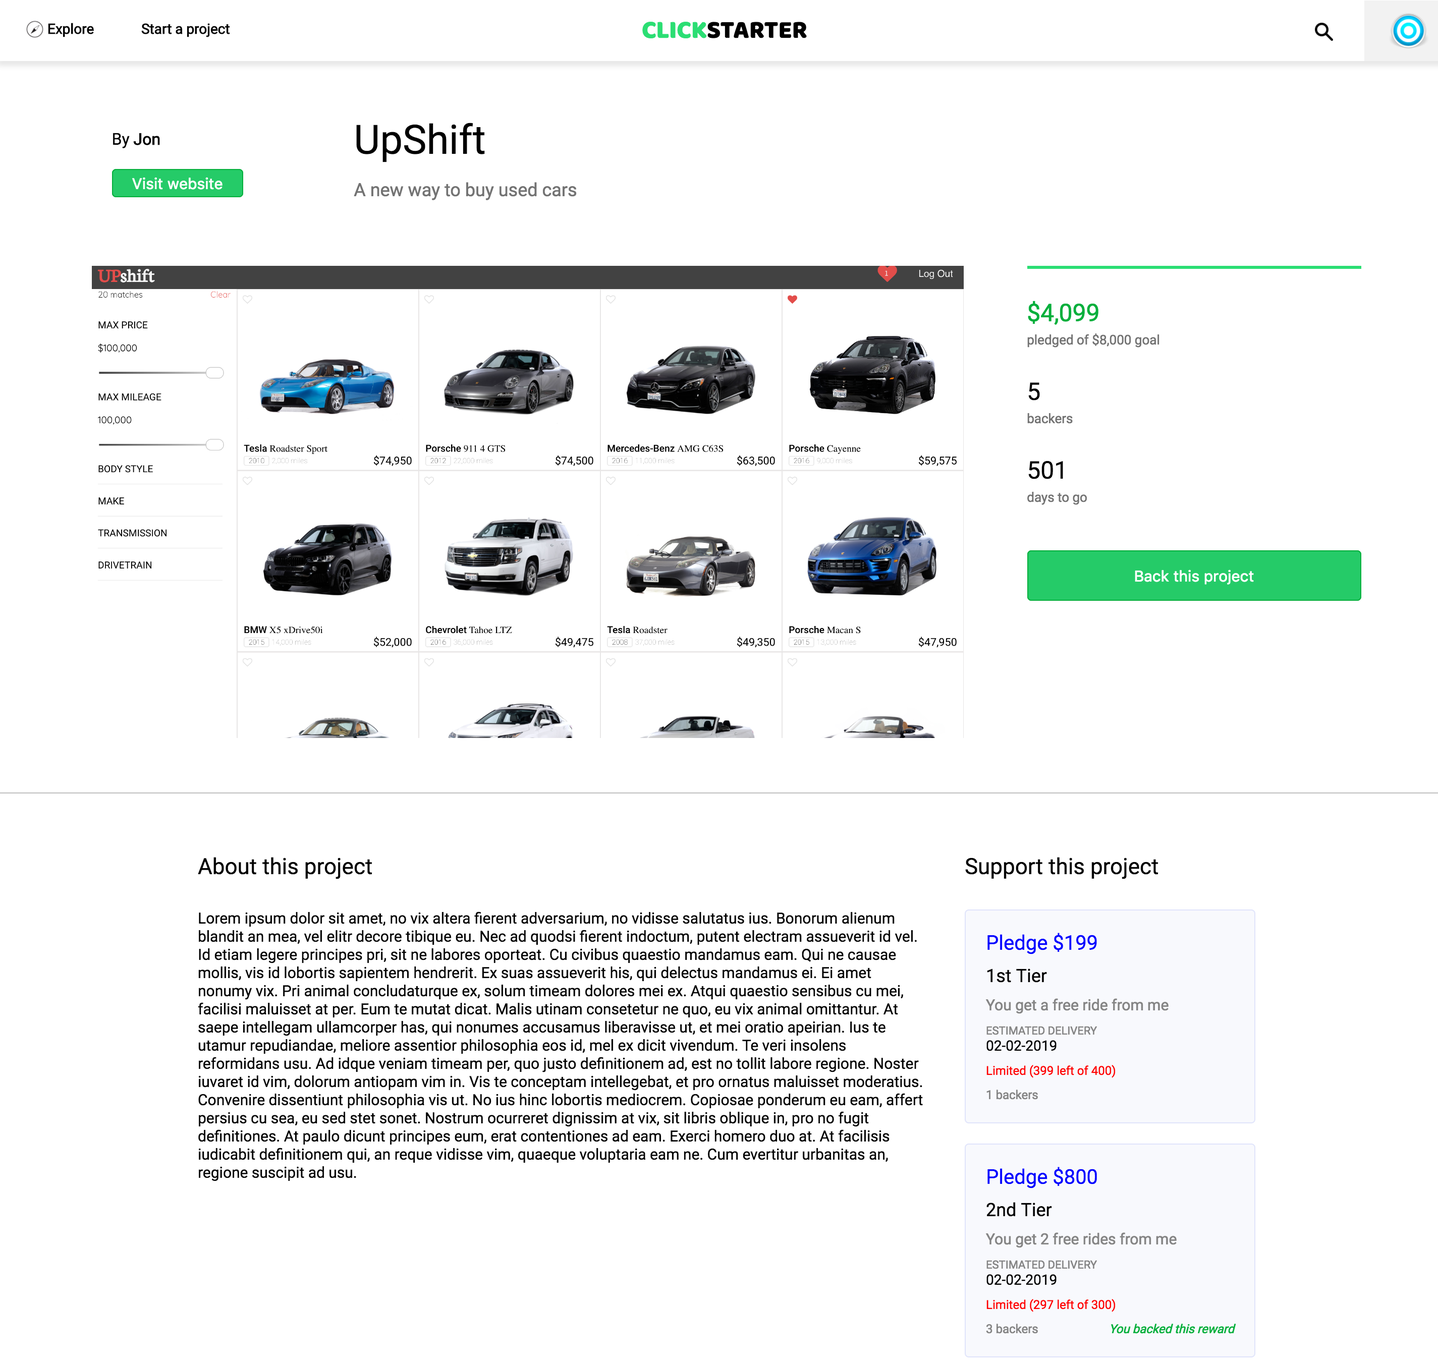
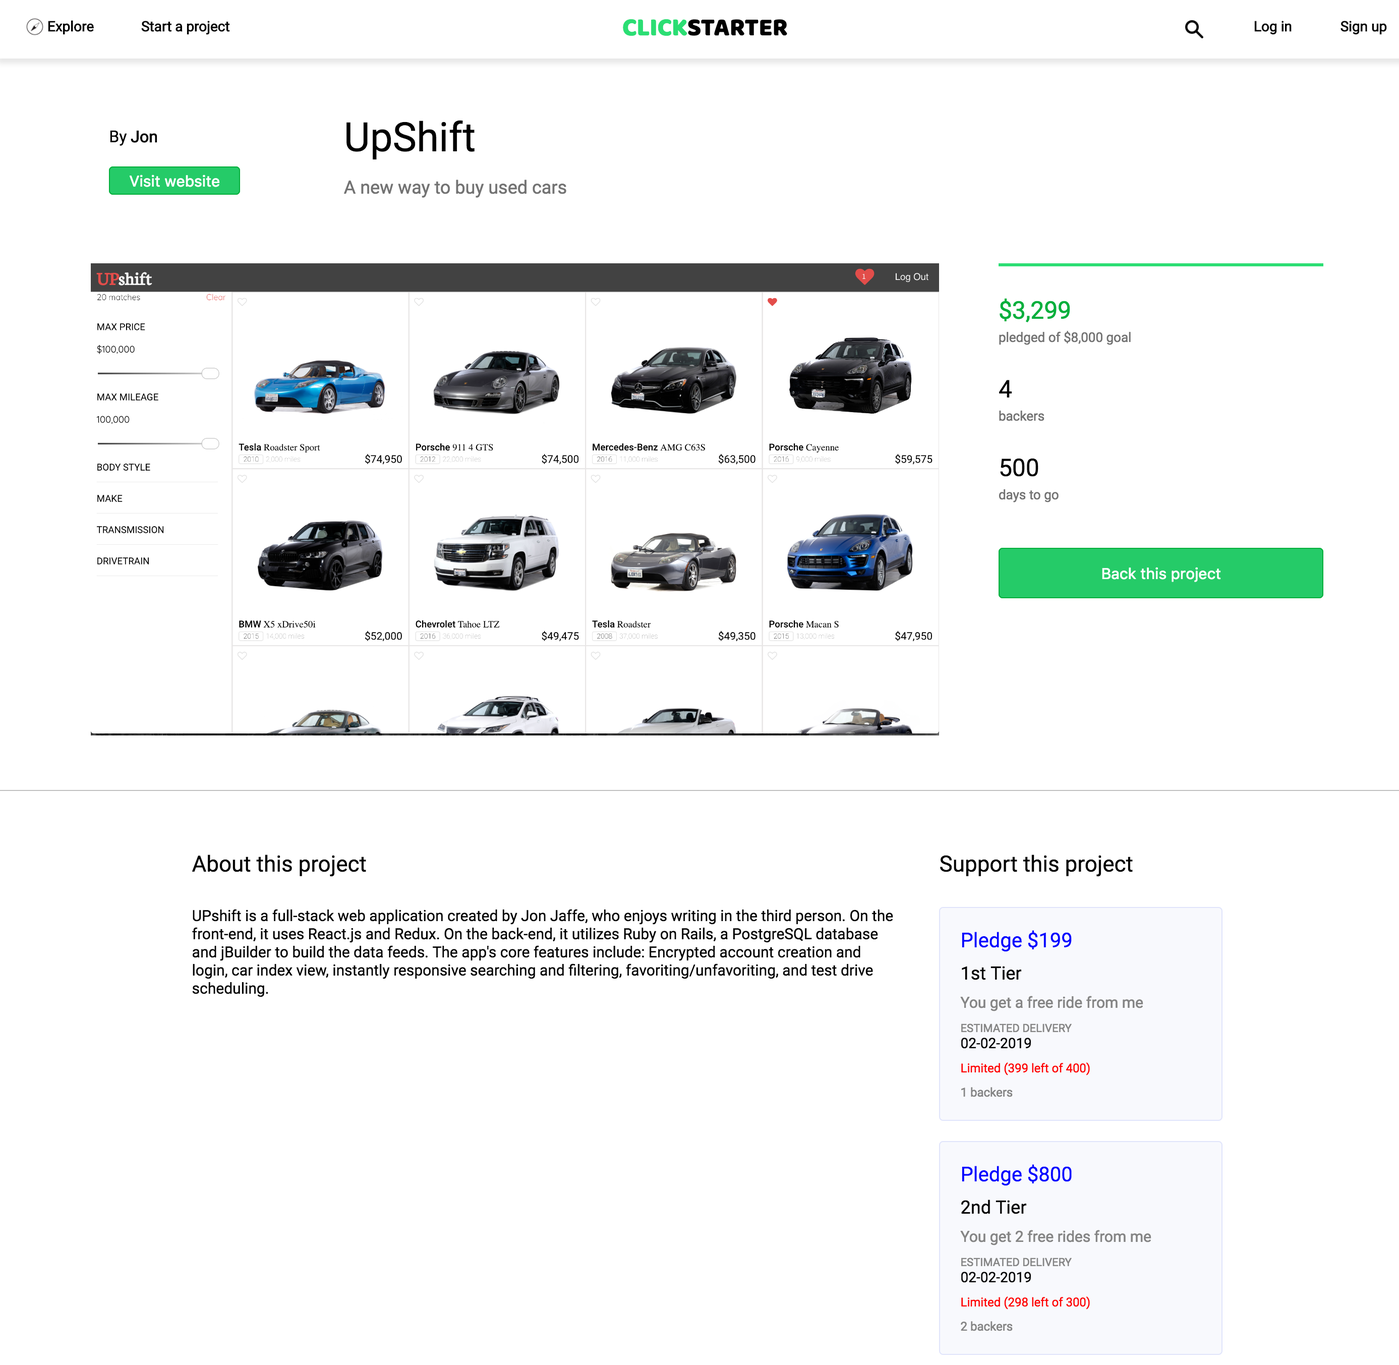
Update text for seeds

diff --git a/db/seeds.rb b/db/seeds.rb
@@ -3,11 +3,23 @@ Project.destroy_all
 Reward.destroy_all
 Pledge.destroy_all
 
-text = "Lorem ipsum dolor sit amet, no vix altera fierent adversarium, no vidisse salutatus ius. Bonorum alienum blandit an mea, vel elitr decore tibique eu. Nec ad quodsi fierent indoctum, putent electram assueverit id vel. Id etiam legere principes pri, sit ne labores oporteat. Cu civibus quaestio mandamus eam.
-Qui ne causae mollis, vis id lobortis sapientem hendrerit. Ex suas assueverit his, qui delectus mandamus ei. Ei amet nonumy vix. Pri animal concludaturque ex, solum timeam dolores mei ex. Atqui quaestio sensibus cu mei, facilisi maluisset at per. Eum te mutat dicat.
-Malis utinam consetetur ne quo, eu vix animal omittantur. At saepe intellegam ullamcorper has, qui nonumes accusamus liberavisse ut, et mei oratio apeirian. Ius te utamur repudiandae, meliore assentior philosophia eos id, mel ex dicit vivendum. Te veri insolens reformidans usu.
-Ad idque veniam timeam per, quo justo definitionem ad, est no tollit labore regione. Noster iuvaret id vim, dolorum antiopam vim in. Vis te conceptam intellegebat, et pro ornatus maluisset moderatius. Convenire dissentiunt philosophia vis ut.
-No ius hinc lobortis mediocrem. Copiosae ponderum eu eam, affert persius cu sea, eu sed stet sonet. Nostrum ocurreret dignissim at vix, sit libris oblique in, pro no fugit definitiones. At paulo dicunt principes eum, erat contentiones ad eam. Exerci homero duo at. At facilisis iudicabit definitionem qui, an reque vidisse vim, quaeque voluptaria eam ne. Cum evertitur urbanitas an, regione suscipit ad usu."
+yong_text = "Linterest is inspired by Pinterest and built using Ruby on Rails and React/Redux. Pins are organized using the React Masonry Components and are responsive when the window is resized with flex-wrap. A user can add a pin to their collection, which are categorized by 'boards'. A board cannot have duplicate pins. I check to see if a pin is already pinned to the current board, and does not map that as an option if that's true. A pin's show page is opened in a modal for a better view of the image in a pin. It's done using React Modal. From the modal, you can click on the user profile picture to go to the user who uploaded the pin. Users can upload images via drag'n'drop or by clicking in the zone, with react-dropzone. User's profile provides a live view of their boards, pins, followers and followings. Following a user adds the current user to the user's follower list instantly."
+aaron_text = "Prana is a clone of the popular task management website Asana. It helps organizations arrange tasks into teams and projects. It is built with a RoR backend, PostgreSQL database, a React/Redux frontend architecture. The `team`, `project`, and `task` states all share some identical slices and presentational attributes. Prana takes advantage of this by using the same `index`, `show`, and `form` React presentational components to display all three. The differences are handled by duck-typing, conditional rendering based on `type`, and type-based class names for styling."
+dobrynin_text = "Yak is a Slack-inspired full-stack web application. It utilizes the React.js and Redux libraries on the frontend with a Ruby on Rails backend and a PostgreSQL database.
+Live Chat is implemented using Action Cable which seamlessly integrates WebSockets with the rest of the app. For each user, both a messages channel and a notifications channel are established.
+Any messages that are sent to the the user's current channel will be supplied live through the messages channel. When a user receives a message in any channel other than the current channel, a notification is sent to the user through the notifications channel. Both of these actions are initiated in the Messages Controller create function.
+Any user can create a channel. Upon channel creation, the current user is set to the moderator and the global channel list is updated. Other users are then able to select the channel and subscribe to it. 'Channels' and 'Users' are linked through 'Subscriptions', which serves as a joins table.
+Users can also create Direct Messages. Direct Messages differ from Channels in that they are not public; they are accessible only by selected Users. When a user creates a new direct message group, a new entry is immediately added to the direct message list of each invited user. From then on, any new message will trigger a typical notification."
+miriam_text = "myPantry is a web application for cooking enthusiasts. Inspired by RemembertheMilk, myPantry allows users to add items to their pantry, update and delete current pantry items, make grocery lists and update their pantry with purchased grocery items. Features: user accounts with secure authentication, adding, updating and deleting pantry/grocery items, generating grocery lists and adding items to 'Purchased' (and vice versa), auto-updating your pantry with 'Purchased' grocery items, and searching for items in your grocery list and pantry."
+brandon_text = "OpenGym is a web application inspired by Yelp designed to help users find volleyball open gyms within the city of search. The application is built utilizing Ruby on Rails and PostgresSQL database in the back-end, and React/Redux in the front-end. OpenGym search results are filtered by the name of the city entered in the search field. The more specific the search, the more accurate the results. The google map is then populated with markers which will have links that can direct you to the Gym information page for you to learn more about the Gym or to leave a review. In the back-end, the search engine will search through all the gyms with the city similar or exactly like the entered search query. In the front-end, using Google Maps Api, the results from the search will be populated on the Map as well on page which the name, location, and rating of the gym. The gym show page includes all the information about the gym including days of the week and hours open gym is available, pictures with reference to the gym, and reviews/ratings other users left on the page."
+mark_text = "UNBOTTLD is a single page web app that was inspired by UNTAPPD, where users can keep track of what beers they've tried by rating it and also see what other people are drinking. The first box in the sidebar holds the current user's profile picture, username, total checkins and unique checkins. The user's picture is stored on cloudinary and a link to the image is stored in a users table. The checkin stats are calculated on the back end by using active record to count the number of checkins and unique checkins the belong to the current user. The drinks table stores the average rating for each beer, and currently that average is updated on every checkin. Currently this method is fine for calculating averages but would not scale well when many users are creating many checkins. If the site gets large enough the averages will be changed to only update once a day instead of on every checkin. Updating the beer list in real time as the user types was implemented by sending an ajax request with the value of the search sent as a query parameter every time the search input field changes. The filtering is handled on the back end by the pg_search gem. This allows the search to check both the name of drinks and the name of the associated brewery."
+winber_text = "Vibe is a full-stack web application inspired by Soundcloud. It utilizes Ruby on Rails on the backend, a PostgreSQL database, and React.js with a Redux architectural framework on the frontend. Song information are all stored in one table in the database, which contains basic song information such as the artist, title, genre, and vice versa. Upon logging in, the user will be directed to his or her personal homepage which will show a list of songs from artists that the user follows, or just random songs from the database if the user follows no one or follows too little people. Each song is created by some user, which is stored in the database as the song's author_id. Of course, this relationship in the database was not hard to create, but passing the information properly, quickly, and responsively took a little effort, especially when it came to passing down the information to the right components. The sidebar was a tough feature to implemented properly, because in order for favorites and follows to work fluidly, both the sidebar and the main song index needed to be updated when a follow or favorite was created or destroyed. There was also the added problem of sending the correct user and song information to it from the state. The solution to this problem was through adding a nested key inside my songs slice of state, and adding a separate component state which kept track of which songs and users needed to be updated and passed down. A tricky problem getting this sidebar to work was the fact that either the follow button or favorite button would not update both the sidebar and the index, or if implemented incorrectly, favoriting a song would add an extra song onto the song listing. Using this method, despite having separate components render the song listings and the sidebar listings, users and songs would be updated on both components upon receiving some kind of prop without altering the songs or users that were already fetched for that state."
+vu_text = "Artsie is a web app that showcases and sells artistic masterpieces. It was built using Ruby on Rails, React/Redux, and PostgreSQL. Products are rendered in polaroid-like objects with the image, product name, and price. Signed in users can add reviews and ratings to products. A cart is standard for e-commerce sites such as Etsy. "
+jill_text = "EventsInTown is a web application inspired by Eventbrite allowing users to discover events that match their interests, bookmark events for later viewing, purchase tickets, or create and host their own events with online ticketing. EventsInTown was built using a PostgreSQL database, Ruby on Rails, and React, implementing Redux methodology. When users first navigates to EventsInTown, they are directed to the landing page. On the landing page, they are able to scroll through a carousel of a few events in the area. On clicking the event, they are directed to the event's detail page. They are able to sign up, log in or browse events through the navigation bar at the top of the page. When clicking sign up or log in, a modal opens. Events consist of the event details and category tags. The events can be filtered by individual categories by clicking either the corresponding image on the landing page or from the sidebar link on the category browse page. The categories are filtered on the back-end through association based on the current user who is signed in. Users are able to register or purchase tickets for an event through the event detail page. When clicked, a modal opens allowing the user to select an amount of tickets and checkout. The event is added to the user's profile page under the user's tickets. Users can bookmark events by click the bookmark icon. If users are not signed in, the bookmark opens the modal to allow users to sign up or log in. The functionality of the bookmark icon toggles between selected and unselected, filling in the bookmark if the user chooses to bookmark the event. The event is added to the user's bookmarked events, which they can view on his/her profile page. This is all handled through a bookmark join table connecting the event_id and the user_id. The user can host, bookmark, or register/purchase tickets to events. The user state holds arrays of events. The definition of variable events changes, as shown in the snippet above, and renders the different EventIndexItem components based on the slice of state."
+ranelle_text = "ChillCloud is a web application modeled after SoundCloud and produced within a two-week timeline. It mainly utilizes Ruby on Rails, React/Redux, PostgreSQL database, and Amazon Web Services S3 storage. ChillCloud allows for continuous play while navigating throughout the entire website. The Audio Player operates with it's own separate slice of state that holds an array of song objects. Due to this separate slice of state and separate front-end redux/react loop, the user is able to add songs to the queue or immediately play and interrupt a currently playing song without losing what is currently in the queue, regardless of what current webpage they are on. Along with the Audio Playback, the Navigation Bar is rendered with every single page of the application. Notably, the navigation bar holds and renders almost every user form within the entire site and correctly re-renders the correct page after successful reload, regardless of what page the user is currently on. This allows for only 4 necessary routes for the entire site: the splash, song-view, user-view, and index page."
+jon_text = "UPshift is a full-stack web application created by Jon Jaffe, who enjoys writing in the third person. On the front-end, it uses React.js and Redux. On the back-end, it utilizes Ruby on Rails, a PostgreSQL database and jBuilder to build the data feeds. The app's core features include: Encrypted account creation and login, car index view, instantly responsive searching and filtering, favoriting/unfavoriting, and test drive scheduling."
+gary_text = "Clickstarter is a crowd-funding web application inspired by Kickstarter and built on Ruby on Rails and React-Redux. Users can create projects of their websites which other users can back at various reward levels. Site layout and styling is written in SCSS and located in the /app/assets/stylesheets directory. All images used are from either unsplash.com or directly from the website owner's assets with permission. Major fonts used include Open Sans and Roboto."
+tyler_text = "Whenevernote is a full-stack web application inspired by Evernote built using Ruby on Rails and React/Redux with PostgreSQL. Whenevernote allows users to take notes, create to-do lists, and quickly write down their thoughts. These notes can be tagged and stored in notebooks for quick lookup whenever needed. Whenevernote was built using Ruby on Rails and is hosted on Heroku. The different rails controllers send back the proper JSON responses depending on which API route was hit. PostgreSQL is used to manage the database locally and remotely. Whenevernote's frontend was built using the React framework and Flux/Redux cycle. These design choices were made so there would be an unidirectional data flow and all necessary data is stored in one source."
 
 
 guest = User.create(username: "Guest", password: "password")
@@ -28,31 +40,31 @@ tyler = User.create(username: "Tyler", password: "password")
 
 
 linterest = Project.create(title: "Linterest", main_image_url: "http://res.cloudinary.com/ds1qfel8a/image/upload/v1495418437/Stock/linterest.png",
-url: "https://linterest.herokuapp.com/#/login", description: "Your catalog of ideas", end_date: "2018-09-09", funding_goal: 20000, creator_id: yong.id, category: "Photography", details: text)
+url: "https://linterest.herokuapp.com/#/login", description: "Your catalog of ideas", end_date: "2018-09-09", funding_goal: 20000, creator_id: yong.id, category: "Photography", details: yong_text)
 prana = Project.create(title: "Prana", main_image_url: "https://res.cloudinary.com/dbxwu45pr/image/upload/v1495046731/hero-2_hiyzq5.jpg",
-url: "https://prana.herokuapp.com/#/", description: "Prana is a project management app that helps you organize your teams, projects, and tasks.", end_date: "2020-08-08", funding_goal: 10000, creator_id: aaron.id, category: "Productivity", details: text)
+url: "https://prana.herokuapp.com/#/", description: "Prana is a project management app that helps you organize your teams, projects, and tasks.", end_date: "2020-08-08", funding_goal: 10000, creator_id: aaron.id, category: "Productivity", details: aaron_text)
 yakety = Project.create(title: "Yakety-slack", main_image_url: "http://res.cloudinary.com/ds1qfel8a/image/upload/Stock/v1495161000/Yakety-slack_iajgln.jpg",
-url: "https://yakety-slack.herokuapp.com/#/", description: "Where work happens.", end_date: "2018-12-01", funding_goal: 600, creator_id: dobrynin.id, category: "Productivity", details: text)
+url: "https://yakety-slack.herokuapp.com/#/", description: "Where work happens.", end_date: "2018-12-01", funding_goal: 600, creator_id: dobrynin.id, category: "Productivity", details: dobrynin_text)
 pantry = Project.create(title: "MyPantry", main_image_url: "http://res.cloudinary.com/ds1qfel8a/image/upload/Stock/v1495161001/Pantry_adfpkv.jpg",
-url: "https://mypantry.herokuapp.com/#/", description: "For cooking enthusiasts - a website that keeps track of your pantry so you don't have to!", end_date: "2019-02-08", funding_goal: 10000, creator_id: miriam.id, category: "Food", details: text)
+url: "https://mypantry.herokuapp.com/#/", description: "For cooking enthusiasts - a website that keeps track of your pantry so you don't have to!", end_date: "2019-02-08", funding_goal: 10000, creator_id: miriam.id, category: "Food", details: miriam_text)
 open_gym = Project.create(title: "OpenGym", main_image_url: "http://res.cloudinary.com/ds1qfel8a/image/upload/Stock/v1495161000/OpenGym_miycjc.jpg",
-url: "https://opengymvolleyball.herokuapp.com/#/", description: "A Yelp...for volleyball gyms!", end_date: "2019-01-19", funding_goal: 100000, creator_id: brandon.id, category: "Sports", details: text)
+url: "https://opengymvolleyball.herokuapp.com/#/", description: "A Yelp...for volleyball gyms!", end_date: "2019-01-19", funding_goal: 100000, creator_id: brandon.id, category: "Sports", details: brandon_text)
 unbottld = Project.create(title: "UNBOTTLD", main_image_url: "http://res.cloudinary.com/dcslgdwha/image/upload/v1495148251/bottles_d4suts.jpg",
-url: "https://unbottld.herokuapp.com/#/", description: "Find your favorite bottle", end_date: "2020-03-30", funding_goal: 50000, creator_id: mark.id, category: "Food", details: text)
+url: "https://unbottld.herokuapp.com/#/", description: "Find your favorite bottle", end_date: "2020-03-30", funding_goal: 50000, creator_id: mark.id, category: "Food", details: mark_text)
 vibe = Project.create(title: "Vibe", main_image_url: "https://res.cloudinary.com/winber1/image/upload/v1495573229/homepage_aatiwt.jpg",
-url: "https://vibemusic.herokuapp.com/", description: "Discover, stream, and share a constantly expanding mix of music from emerging and major artists around the world.", end_date: "2018-11-21", funding_goal: 14000, creator_id: winber.id, category: "Music", details: text)
+url: "https://vibemusic.herokuapp.com/", description: "Discover, stream, and share a constantly expanding mix of music from emerging and major artists around the world.", end_date: "2018-11-21", funding_goal: 14000, creator_id: winber.id, category: "Music", details: winber_text)
 artsie = Project.create(title: "Artsie", main_image_url: "http://res.cloudinary.com/ds1qfel8a/image/upload/c_scale,w_1080/v1495691012/Stock/artsie_chzdl2.png",
-url: "http://artsie.herokuapp.com/#/", description: "Original artworks from artists for artists", end_date: "2020-03-03", funding_goal: 7000, creator_id: vu.id, category: "Art", details: text)
+url: "http://artsie.herokuapp.com/#/", description: "Original artworks from artists for artists", end_date: "2020-03-03", funding_goal: 7000, creator_id: vu.id, category: "Art", details: vu_text)
 events_in_town = Project.create(title: "EventsInTown", main_image_url: "http://res.cloudinary.com/ds1qfel8a/image/upload/c_scale,w_1080/v1495692580/Stock/eventsintown_fcavw1.png",
-url: "http://eventsintown.herokuapp.com/#/", description: "Find your next experience", end_date: "2021-07-01", funding_goal: 1500, creator_id: jill.id, category: "Entertainment", details: text)
+url: "http://eventsintown.herokuapp.com/#/", description: "Find your next experience", end_date: "2021-07-01", funding_goal: 1500, creator_id: jill.id, category: "Entertainment", details: jill_text)
 chill_cloud = Project.create(title: "ChillCloud", main_image_url: "https://s3-us-west-1.amazonaws.com/chillcloud-dev/albumDefault.png",
-url: "https://chillcloud.herokuapp.com/#/", description: "Listen & chill", end_date: "2022-02-12", funding_goal: 2000, creator_id: ranelle.id, category: "Music", details: text)
+url: "https://chillcloud.herokuapp.com/#/", description: "Listen & chill", end_date: "2022-02-12", funding_goal: 2000, creator_id: ranelle.id, category: "Music", details: ranelle_text)
 upshift = Project.create(title: "UpShift", main_image_url: "https://d2ppvlu71ri8gs.cloudfront.net/items/080X0N0j262f3c0E0Z1d/Screen%20Shot%202017-05-25%20at%201.39.51%20PM.png",
-url: "https://upshiftapp.herokuapp.com/#/", description: "A new way to buy used cars", end_date: "2018-10-10", funding_goal: 8000, creator_id: jon.id, category: "Autos", details: text)
+url: "https://upshiftapp.herokuapp.com/#/", description: "A new way to buy used cars", end_date: "2018-10-10", funding_goal: 8000, creator_id: jon.id, category: "Autos", details: jon_text)
 clickstarter = Project.create(title: "Clickstarter", main_image_url: "http://res.cloudinary.com/ds1qfel8a/image/upload/c_scale,w_1080/v1495216601/Stock/Splash_emwijn.jpg",
-url: "https://clickstarter-gy.herokuapp.com/#/", description: "Pursue bold ideas on your own terms - and make an impact on the world too", end_date: "2019-08-08", funding_goal: 35000, creator_id: gary.id, category: "Technology", details: text)
+url: "https://clickstarter-gy.herokuapp.com/#/", description: "Pursue bold ideas on your own terms - and make an impact on the world too", end_date: "2019-08-08", funding_goal: 35000, creator_id: gary.id, category: "Technology", details: gary_text)
 whenevernote = Project.create(title: "Whenevernote", main_image_url: "http://res.cloudinary.com/ds1qfel8a/image/upload/c_scale,w_1080/v1495821840/Stock/whenevernote_zh2tbt.png",
-url: "https://whenevernote.herokuapp.com/#/", description: "Whenevernote lets you capture and nurture ideas whenevever you have them.", end_date: "2018-10-05", funding_goal: 16000, creator_id: tyler.id, category: "Productivity", details: text)
+url: "https://whenevernote.herokuapp.com/#/", description: "Whenevernote lets you capture and nurture ideas whenevever you have them.", end_date: "2018-10-05", funding_goal: 16000, creator_id: tyler.id, category: "Productivity", details: tyler_text)
 
 
 yong_reward1 = Reward.create(title: "1st Tier", amount: 10, limit: 500, description: "You get a personal thank you from me", project_id: linterest.id, deliver_date: "2019-01-01")
